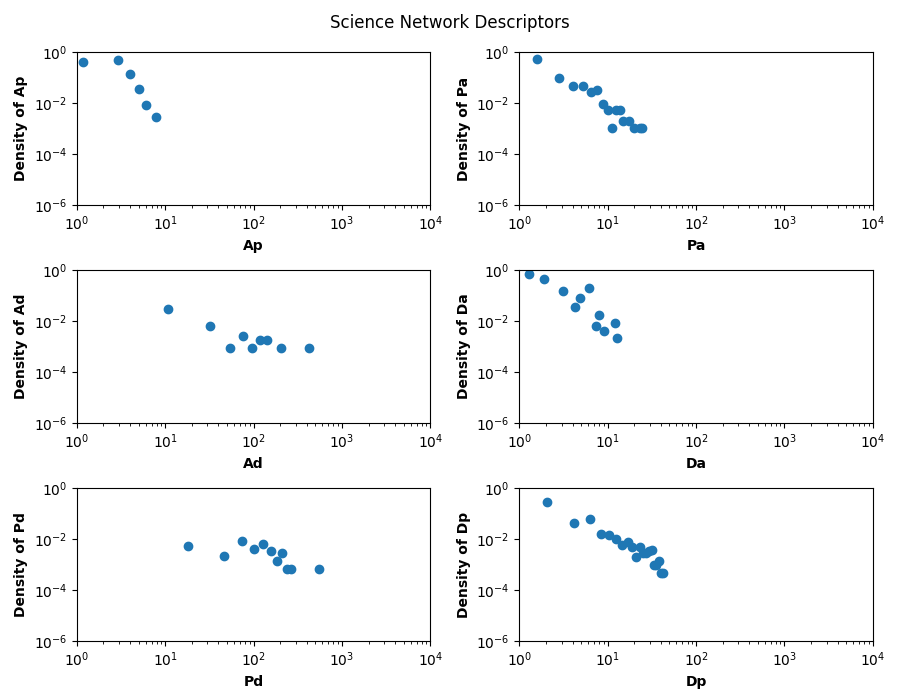
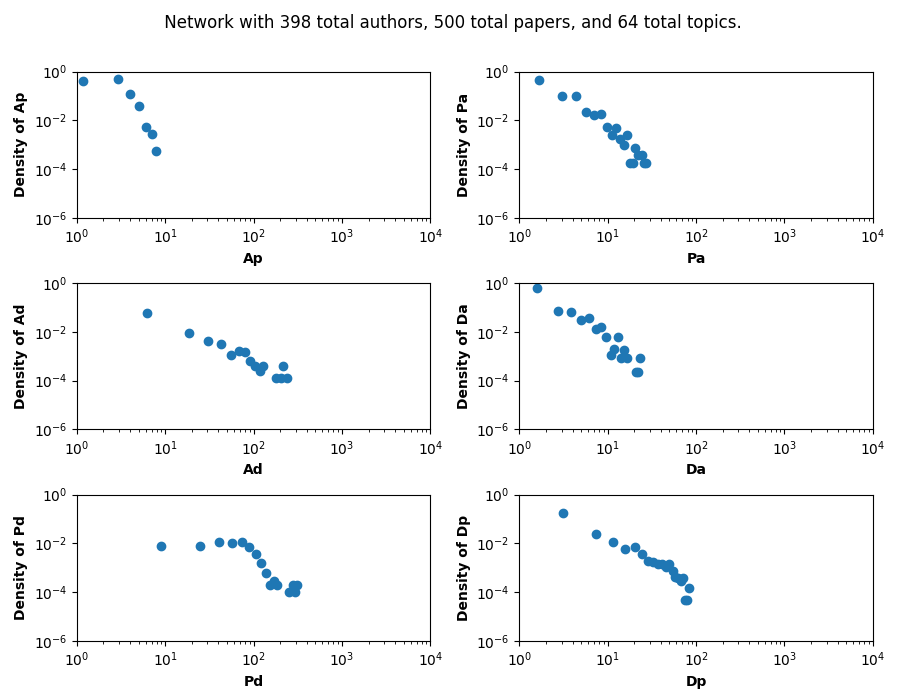
Added bibsonomy model

diff --git a/outputs/ErrorGraph.html b/outputs/ErrorGraph.html
@@ -1,0 +1,108 @@
+<html>
+<head>
+<link rel="stylesheet" href="https://cdnjs.cloudflare.com/ajax/libs/vis/4.16.1/vis.css" type="text/css" />
+<script type="text/javascript" src="https://cdnjs.cloudflare.com/ajax/libs/vis/4.16.1/vis-network.min.js"> </script>
+<center>
+<h1></h1>
+</center>
+
+<!-- <link rel="stylesheet" href="../node_modules/vis/dist/vis.min.css" type="text/css" />
+<script type="text/javascript" src="../node_modules/vis/dist/vis.js"> </script>-->
+
+<style type="text/css">
+
+        #mynetwork {
+            width: 500px;
+            height: 500px;
+            background-color: #ffffff;
+            border: 1px solid lightgray;
+            position: relative;
+            float: left;
+        }
+
+        
+
+        
+
+        
+</style>
+
+</head>
+
+<body>
+<div id = "mynetwork"></div>
+
+
+<script type="text/javascript">
+
+    // initialize global variables.
+    var edges;
+    var nodes;
+    var network; 
+    var container;
+    var options, data;
+
+    
+    // This method is responsible for drawing the graph, returns the drawn network
+    function drawGraph() {
+        var container = document.getElementById('mynetwork');
+        
+        
+
+        // parsing and collecting nodes and edges from the python
+        nodes = new vis.DataSet([{"data": null, "group": 1, "id": 32, "label": "Author 32", "shape": "dot", "size": 10, "title": "\n            \u003cstyle\u003e\n                table {font-family: arial, sans-serif;border-collapse: collapse;}\n                td, th {border: 1px solid #dddddd;text-align: left;padding: 8px;}\n                th {background-color:#22A7F0}\n                tr:nth-child(even) {background-color: #dddddd;}\n            \u003c/style\u003e\n            \u003cdiv style=\"overflow-x:auto; width:500px\"\u003e\u003ctable\u003e\u003ctr\u003e\u003ccaption\u003e\u003cb\u003eMain Author Disciplines:\u003c/b\u003e 5,7\u003c/caption\u003e\u003c/tr\u003e\u003ctr\u003e\u003cth\u003e5\u003c/th\u003e\u003ctd\u003e37\u003c/td\u003e\u003ctd\u003e111\u003c/td\u003e\u003ctd\u003e114\u003c/td\u003e\u003ctd\u003e122\u003c/td\u003e\u003ctd\u003e56\u003c/td\u003e\u003c/tr\u003e\u003ctr\u003e\u003cth\u003e7\u003c/th\u003e\u003ctd\u003e37\u003c/td\u003e\u003ctd\u003e111\u003c/td\u003e\u003ctd\u003e114\u003c/td\u003e\u003ctd\u003e122\u003c/td\u003e\u003ctd\u003e56\u003c/td\u003e\u003c/tr\u003e\u003ctr\u003e\u003cth\u003e14\u003c/th\u003e\u003ctd\u003e56\u003c/td\u003e\u003c/tr\u003e\u003ctr\u003e\u003cth\u003e15\u003c/th\u003e\u003ctd\u003e56\u003c/td\u003e\u003c/tr\u003e\u003ctr\u003e\u003cth\u003e16\u003c/th\u003e\u003ctd\u003e56\u003c/td\u003e\u003c/tr\u003e\u003ctr\u003e\u003cth\u003e17\u003c/th\u003e\u003ctd\u003e56\u003c/td\u003e\u003c/tr\u003e\u003ctr\u003e\u003cth\u003e18\u003c/th\u003e\u003ctd\u003e56\u003c/td\u003e\u003c/tr\u003e\u003ctr\u003e\u003cth\u003e19\u003c/th\u003e\u003ctd\u003e56\u003c/td\u003e\u003c/tr\u003e\u003ctr\u003e\u003cth\u003e20\u003c/th\u003e\u003ctd\u003e56\u003c/td\u003e\u003c/tr\u003e\u003ctr\u003e\u003cth\u003e21\u003c/th\u003e\u003ctd\u003e56\u003c/td\u003e\u003c/tr\u003e\u003ctr\u003e\u003cth\u003e22\u003c/th\u003e\u003ctd\u003e56\u003c/td\u003e\u003c/tr\u003e\u003ctr\u003e\u003cth\u003e23\u003c/th\u003e\u003ctd\u003e56\u003c/td\u003e\u003c/tr\u003e\u003ctr\u003e\u003cth\u003e24\u003c/th\u003e\u003ctd\u003e56\u003c/td\u003e\u003c/tr\u003e\u003ctr\u003e\u003cth\u003e25\u003c/th\u003e\u003ctd\u003e56\u003c/td\u003e\u003c/tr\u003e\u003ctr\u003e\u003cth\u003e26\u003c/th\u003e\u003ctd\u003e56\u003c/td\u003e\u003c/tr\u003e\u003ctr\u003e\u003cth\u003e27\u003c/th\u003e\u003ctd\u003e56\u003c/td\u003e\u003c/tr\u003e\u003ctr\u003e\u003cth\u003e28\u003c/th\u003e\u003ctd\u003e56\u003c/td\u003e\u003c/tr\u003e\u003ctr\u003e\u003cth\u003e29\u003c/th\u003e\u003ctd\u003e56\u003c/td\u003e\u003c/tr\u003e\u003ctr\u003e\u003cth\u003e30\u003c/th\u003e\u003ctd\u003e56\u003c/td\u003e\u003c/tr\u003e\u003ctr\u003e\u003cth\u003e31\u003c/th\u003e\u003ctd\u003e56\u003c/td\u003e\u003c/tr\u003e\u003ctr\u003e\u003cth\u003e32\u003c/th\u003e\u003ctd\u003e56\u003c/td\u003e\u003c/tr\u003e\u003ctr\u003e\u003cth\u003e33\u003c/th\u003e\u003ctd\u003e56\u003c/td\u003e\u003c/tr\u003e\u003ctr\u003e\u003cth\u003e34\u003c/th\u003e\u003ctd\u003e56\u003c/td\u003e\u003c/tr\u003e\u003ctr\u003e\u003cth\u003e35\u003c/th\u003e\u003ctd\u003e56\u003c/td\u003e\u003c/tr\u003e\u003c/table\u003e\u003c/div\u003e", "value": 5}, {"data": null, "group": 1, "id": 33, "label": "Author 33", "shape": "dot", "size": 10, "title": "\n            \u003cstyle\u003e\n                table {font-family: arial, sans-serif;border-collapse: collapse;}\n                td, th {border: 1px solid #dddddd;text-align: left;padding: 8px;}\n                th {background-color:#22A7F0}\n                tr:nth-child(even) {background-color: #dddddd;}\n            \u003c/style\u003e\n            \u003cdiv style=\"overflow-x:auto; width:500px\"\u003e\u003ctable\u003e\u003ctr\u003e\u003ccaption\u003e\u003cb\u003eMain Author Disciplines:\u003c/b\u003e 5,7\u003c/caption\u003e\u003c/tr\u003e\u003ctr\u003e\u003cth\u003e5\u003c/th\u003e\u003ctd\u003e38\u003c/td\u003e\u003ctd\u003e170\u003c/td\u003e\u003ctd\u003e115\u003c/td\u003e\u003c/tr\u003e\u003ctr\u003e\u003cth\u003e7\u003c/th\u003e\u003ctd\u003e38\u003c/td\u003e\u003ctd\u003e170\u003c/td\u003e\u003ctd\u003e115\u003c/td\u003e\u003c/tr\u003e\u003ctr\u003e\u003cth\u003e23\u003c/th\u003e\u003ctd\u003e115\u003c/td\u003e\u003c/tr\u003e\u003ctr\u003e\u003cth\u003e24\u003c/th\u003e\u003ctd\u003e115\u003c/td\u003e\u003c/tr\u003e\u003ctr\u003e\u003cth\u003e25\u003c/th\u003e\u003ctd\u003e115\u003c/td\u003e\u003c/tr\u003e\u003ctr\u003e\u003cth\u003e26\u003c/th\u003e\u003ctd\u003e115\u003c/td\u003e\u003c/tr\u003e\u003ctr\u003e\u003cth\u003e27\u003c/th\u003e\u003ctd\u003e115\u003c/td\u003e\u003c/tr\u003e\u003ctr\u003e\u003cth\u003e28\u003c/th\u003e\u003ctd\u003e115\u003c/td\u003e\u003c/tr\u003e\u003ctr\u003e\u003cth\u003e29\u003c/th\u003e\u003ctd\u003e115\u003c/td\u003e\u003c/tr\u003e\u003ctr\u003e\u003cth\u003e30\u003c/th\u003e\u003ctd\u003e115\u003c/td\u003e\u003c/tr\u003e\u003ctr\u003e\u003cth\u003e31\u003c/th\u003e\u003ctd\u003e115\u003c/td\u003e\u003c/tr\u003e\u003ctr\u003e\u003cth\u003e32\u003c/th\u003e\u003ctd\u003e115\u003c/td\u003e\u003c/tr\u003e\u003ctr\u003e\u003cth\u003e33\u003c/th\u003e\u003ctd\u003e115\u003c/td\u003e\u003c/tr\u003e\u003ctr\u003e\u003cth\u003e34\u003c/th\u003e\u003ctd\u003e115\u003c/td\u003e\u003c/tr\u003e\u003ctr\u003e\u003cth\u003e35\u003c/th\u003e\u003ctd\u003e115\u003c/td\u003e\u003c/tr\u003e\u003c/table\u003e\u003c/div\u003e", "value": 3}, {"data": null, "group": 2, "id": 9, "label": "Author 9", "shape": "dot", "size": 10, "title": "\n            \u003cstyle\u003e\n                table {font-family: arial, sans-serif;border-collapse: collapse;}\n                td, th {border: 1px solid #dddddd;text-align: left;padding: 8px;}\n                th {background-color:#22A7F0}\n                tr:nth-child(even) {background-color: #dddddd;}\n            \u003c/style\u003e\n            \u003cdiv style=\"overflow-x:auto; width:500px\"\u003e\u003ctable\u003e\u003ctr\u003e\u003ccaption\u003e\u003cb\u003eMain Author Disciplines:\u003c/b\u003e 7\u003c/caption\u003e\u003c/tr\u003e\u003ctr\u003e\u003cth\u003e5\u003c/th\u003e\u003ctd\u003e12\u003c/td\u003e\u003ctd\u003e28\u003c/td\u003e\u003c/tr\u003e\u003ctr\u003e\u003cth\u003e7\u003c/th\u003e\u003ctd\u003e34\u003c/td\u003e\u003ctd\u003e54\u003c/td\u003e\u003ctd\u003e12\u003c/td\u003e\u003ctd\u003e28\u003c/td\u003e\u003ctd\u003e13\u003c/td\u003e\u003c/tr\u003e\u003ctr\u003e\u003cth\u003e8\u003c/th\u003e\u003ctd\u003e13\u003c/td\u003e\u003c/tr\u003e\u003ctr\u003e\u003cth\u003e9\u003c/th\u003e\u003ctd\u003e13\u003c/td\u003e\u003c/tr\u003e\u003ctr\u003e\u003cth\u003e10\u003c/th\u003e\u003ctd\u003e13\u003c/td\u003e\u003c/tr\u003e\u003ctr\u003e\u003cth\u003e11\u003c/th\u003e\u003ctd\u003e13\u003c/td\u003e\u003c/tr\u003e\u003ctr\u003e\u003cth\u003e12\u003c/th\u003e\u003ctd\u003e13\u003c/td\u003e\u003c/tr\u003e\u003ctr\u003e\u003cth\u003e13\u003c/th\u003e\u003ctd\u003e13\u003c/td\u003e\u003c/tr\u003e\u003ctr\u003e\u003cth\u003e14\u003c/th\u003e\u003ctd\u003e13\u003c/td\u003e\u003c/tr\u003e\u003ctr\u003e\u003cth\u003e15\u003c/th\u003e\u003ctd\u003e13\u003c/td\u003e\u003c/tr\u003e\u003ctr\u003e\u003cth\u003e16\u003c/th\u003e\u003ctd\u003e13\u003c/td\u003e\u003c/tr\u003e\u003ctr\u003e\u003cth\u003e17\u003c/th\u003e\u003ctd\u003e13\u003c/td\u003e\u003c/tr\u003e\u003ctr\u003e\u003cth\u003e18\u003c/th\u003e\u003ctd\u003e13\u003c/td\u003e\u003c/tr\u003e\u003ctr\u003e\u003cth\u003e19\u003c/th\u003e\u003ctd\u003e13\u003c/td\u003e\u003c/tr\u003e\u003ctr\u003e\u003cth\u003e20\u003c/th\u003e\u003ctd\u003e13\u003c/td\u003e\u003c/tr\u003e\u003ctr\u003e\u003cth\u003e21\u003c/th\u003e\u003ctd\u003e13\u003c/td\u003e\u003c/tr\u003e\u003ctr\u003e\u003cth\u003e22\u003c/th\u003e\u003ctd\u003e13\u003c/td\u003e\u003c/tr\u003e\u003ctr\u003e\u003cth\u003e23\u003c/th\u003e\u003ctd\u003e13\u003c/td\u003e\u003c/tr\u003e\u003ctr\u003e\u003cth\u003e24\u003c/th\u003e\u003ctd\u003e13\u003c/td\u003e\u003c/tr\u003e\u003ctr\u003e\u003cth\u003e25\u003c/th\u003e\u003ctd\u003e13\u003c/td\u003e\u003c/tr\u003e\u003ctr\u003e\u003cth\u003e26\u003c/th\u003e\u003ctd\u003e13\u003c/td\u003e\u003c/tr\u003e\u003ctr\u003e\u003cth\u003e27\u003c/th\u003e\u003ctd\u003e13\u003c/td\u003e\u003c/tr\u003e\u003ctr\u003e\u003cth\u003e28\u003c/th\u003e\u003ctd\u003e12\u003c/td\u003e\u003ctd\u003e28\u003c/td\u003e\u003ctd\u003e11\u003c/td\u003e\u003ctd\u003e13\u003c/td\u003e\u003c/tr\u003e\u003ctr\u003e\u003cth\u003e29\u003c/th\u003e\u003ctd\u003e11\u003c/td\u003e\u003ctd\u003e13\u003c/td\u003e\u003c/tr\u003e\u003ctr\u003e\u003cth\u003e30\u003c/th\u003e\u003ctd\u003e11\u003c/td\u003e\u003ctd\u003e13\u003c/td\u003e\u003c/tr\u003e\u003ctr\u003e\u003cth\u003e31\u003c/th\u003e\u003ctd\u003e13\u003c/td\u003e\u003c/tr\u003e\u003ctr\u003e\u003cth\u003e32\u003c/th\u003e\u003ctd\u003e13\u003c/td\u003e\u003c/tr\u003e\u003ctr\u003e\u003cth\u003e33\u003c/th\u003e\u003ctd\u003e13\u003c/td\u003e\u003c/tr\u003e\u003ctr\u003e\u003cth\u003e34\u003c/th\u003e\u003ctd\u003e11\u003c/td\u003e\u003ctd\u003e13\u003c/td\u003e\u003c/tr\u003e\u003ctr\u003e\u003cth\u003e35\u003c/th\u003e\u003ctd\u003e11\u003c/td\u003e\u003ctd\u003e13\u003c/td\u003e\u003c/tr\u003e\u003c/table\u003e\u003c/div\u003e", "value": 6}, {"data": null, "group": 3, "id": 11, "label": "Author 11", "shape": "dot", "size": 10, "title": "\n            \u003cstyle\u003e\n                table {font-family: arial, sans-serif;border-collapse: collapse;}\n                td, th {border: 1px solid #dddddd;text-align: left;padding: 8px;}\n                th {background-color:#22A7F0}\n                tr:nth-child(even) {background-color: #dddddd;}\n            \u003c/style\u003e\n            \u003cdiv style=\"overflow-x:auto; width:500px\"\u003e\u003ctable\u003e\u003ctr\u003e\u003ccaption\u003e\u003cb\u003eMain Author Disciplines:\u003c/b\u003e 5\u003c/caption\u003e\u003c/tr\u003e\u003ctr\u003e\u003cth\u003e5\u003c/th\u003e\u003ctd\u003e136\u003c/td\u003e\u003ctd\u003e14\u003c/td\u003e\u003ctd\u003e40\u003c/td\u003e\u003ctd\u003e70\u003c/td\u003e\u003ctd\u003e124\u003c/td\u003e\u003ctd\u003e155\u003c/td\u003e\u003ctd\u003e29\u003c/td\u003e\u003ctd\u003e180\u003c/td\u003e\u003c/tr\u003e\u003ctr\u003e\u003cth\u003e10\u003c/th\u003e\u003ctd\u003e29\u003c/td\u003e\u003c/tr\u003e\u003ctr\u003e\u003cth\u003e11\u003c/th\u003e\u003ctd\u003e29\u003c/td\u003e\u003c/tr\u003e\u003ctr\u003e\u003cth\u003e12\u003c/th\u003e\u003ctd\u003e29\u003c/td\u003e\u003c/tr\u003e\u003ctr\u003e\u003cth\u003e13\u003c/th\u003e\u003ctd\u003e29\u003c/td\u003e\u003c/tr\u003e\u003ctr\u003e\u003cth\u003e14\u003c/th\u003e\u003ctd\u003e29\u003c/td\u003e\u003c/tr\u003e\u003ctr\u003e\u003cth\u003e15\u003c/th\u003e\u003ctd\u003e29\u003c/td\u003e\u003c/tr\u003e\u003ctr\u003e\u003cth\u003e16\u003c/th\u003e\u003ctd\u003e29\u003c/td\u003e\u003c/tr\u003e\u003ctr\u003e\u003cth\u003e17\u003c/th\u003e\u003ctd\u003e29\u003c/td\u003e\u003c/tr\u003e\u003ctr\u003e\u003cth\u003e18\u003c/th\u003e\u003ctd\u003e29\u003c/td\u003e\u003c/tr\u003e\u003ctr\u003e\u003cth\u003e19\u003c/th\u003e\u003ctd\u003e29\u003c/td\u003e\u003c/tr\u003e\u003ctr\u003e\u003cth\u003e20\u003c/th\u003e\u003ctd\u003e29\u003c/td\u003e\u003c/tr\u003e\u003ctr\u003e\u003cth\u003e21\u003c/th\u003e\u003ctd\u003e29\u003c/td\u003e\u003c/tr\u003e\u003ctr\u003e\u003cth\u003e22\u003c/th\u003e\u003ctd\u003e29\u003c/td\u003e\u003c/tr\u003e\u003ctr\u003e\u003cth\u003e23\u003c/th\u003e\u003ctd\u003e29\u003c/td\u003e\u003c/tr\u003e\u003ctr\u003e\u003cth\u003e24\u003c/th\u003e\u003ctd\u003e29\u003c/td\u003e\u003c/tr\u003e\u003ctr\u003e\u003cth\u003e25\u003c/th\u003e\u003ctd\u003e29\u003c/td\u003e\u003c/tr\u003e\u003ctr\u003e\u003cth\u003e26\u003c/th\u003e\u003ctd\u003e29\u003c/td\u003e\u003c/tr\u003e\u003ctr\u003e\u003cth\u003e27\u003c/th\u003e\u003ctd\u003e29\u003c/td\u003e\u003c/tr\u003e\u003ctr\u003e\u003cth\u003e28\u003c/th\u003e\u003ctd\u003e14\u003c/td\u003e\u003ctd\u003e40\u003c/td\u003e\u003ctd\u003e70\u003c/td\u003e\u003ctd\u003e124\u003c/td\u003e\u003ctd\u003e29\u003c/td\u003e\u003c/tr\u003e\u003ctr\u003e\u003cth\u003e29\u003c/th\u003e\u003ctd\u003e29\u003c/td\u003e\u003c/tr\u003e\u003ctr\u003e\u003cth\u003e30\u003c/th\u003e\u003ctd\u003e29\u003c/td\u003e\u003c/tr\u003e\u003ctr\u003e\u003cth\u003e31\u003c/th\u003e\u003ctd\u003e29\u003c/td\u003e\u003c/tr\u003e\u003ctr\u003e\u003cth\u003e32\u003c/th\u003e\u003ctd\u003e29\u003c/td\u003e\u003c/tr\u003e\u003ctr\u003e\u003cth\u003e33\u003c/th\u003e\u003ctd\u003e29\u003c/td\u003e\u003c/tr\u003e\u003ctr\u003e\u003cth\u003e34\u003c/th\u003e\u003ctd\u003e29\u003c/td\u003e\u003c/tr\u003e\u003ctr\u003e\u003cth\u003e35\u003c/th\u003e\u003ctd\u003e29\u003c/td\u003e\u003c/tr\u003e\u003c/table\u003e\u003c/div\u003e", "value": 8}, {"data": null, "group": 4, "id": 12, "label": "Author 12", "shape": "dot", "size": 10, "title": "\n            \u003cstyle\u003e\n                table {font-family: arial, sans-serif;border-collapse: collapse;}\n                td, th {border: 1px solid #dddddd;text-align: left;padding: 8px;}\n                th {background-color:#22A7F0}\n                tr:nth-child(even) {background-color: #dddddd;}\n            \u003c/style\u003e\n            \u003cdiv style=\"overflow-x:auto; width:500px\"\u003e\u003ctable\u003e\u003ctr\u003e\u003ccaption\u003e\u003cb\u003eMain Author Disciplines:\u003c/b\u003e 7,8\u003c/caption\u003e\u003c/tr\u003e\u003ctr\u003e\u003cth\u003e1\u003c/th\u003e\u003ctd\u003e19\u003c/td\u003e\u003c/tr\u003e\u003ctr\u003e\u003cth\u003e7\u003c/th\u003e\u003ctd\u003e50\u003c/td\u003e\u003ctd\u003e94\u003c/td\u003e\u003ctd\u003e42\u003c/td\u003e\u003ctd\u003e44\u003c/td\u003e\u003ctd\u003e57\u003c/td\u003e\u003c/tr\u003e\u003ctr\u003e\u003cth\u003e8\u003c/th\u003e\u003ctd\u003e50\u003c/td\u003e\u003ctd\u003e94\u003c/td\u003e\u003ctd\u003e42\u003c/td\u003e\u003ctd\u003e44\u003c/td\u003e\u003ctd\u003e57\u003c/td\u003e\u003c/tr\u003e\u003ctr\u003e\u003cth\u003e15\u003c/th\u003e\u003ctd\u003e57\u003c/td\u003e\u003c/tr\u003e\u003ctr\u003e\u003cth\u003e16\u003c/th\u003e\u003ctd\u003e57\u003c/td\u003e\u003c/tr\u003e\u003ctr\u003e\u003cth\u003e17\u003c/th\u003e\u003ctd\u003e57\u003c/td\u003e\u003c/tr\u003e\u003ctr\u003e\u003cth\u003e18\u003c/th\u003e\u003ctd\u003e57\u003c/td\u003e\u003c/tr\u003e\u003ctr\u003e\u003cth\u003e19\u003c/th\u003e\u003ctd\u003e57\u003c/td\u003e\u003c/tr\u003e\u003ctr\u003e\u003cth\u003e20\u003c/th\u003e\u003ctd\u003e57\u003c/td\u003e\u003c/tr\u003e\u003ctr\u003e\u003cth\u003e21\u003c/th\u003e\u003ctd\u003e42\u003c/td\u003e\u003ctd\u003e44\u003c/td\u003e\u003ctd\u003e57\u003c/td\u003e\u003c/tr\u003e\u003ctr\u003e\u003cth\u003e22\u003c/th\u003e\u003ctd\u003e57\u003c/td\u003e\u003c/tr\u003e\u003ctr\u003e\u003cth\u003e23\u003c/th\u003e\u003ctd\u003e57\u003c/td\u003e\u003c/tr\u003e\u003ctr\u003e\u003cth\u003e24\u003c/th\u003e\u003ctd\u003e42\u003c/td\u003e\u003ctd\u003e44\u003c/td\u003e\u003ctd\u003e15\u003c/td\u003e\u003ctd\u003e57\u003c/td\u003e\u003c/tr\u003e\u003ctr\u003e\u003cth\u003e25\u003c/th\u003e\u003ctd\u003e57\u003c/td\u003e\u003c/tr\u003e\u003ctr\u003e\u003cth\u003e26\u003c/th\u003e\u003ctd\u003e57\u003c/td\u003e\u003c/tr\u003e\u003ctr\u003e\u003cth\u003e27\u003c/th\u003e\u003ctd\u003e57\u003c/td\u003e\u003c/tr\u003e\u003ctr\u003e\u003cth\u003e28\u003c/th\u003e\u003ctd\u003e57\u003c/td\u003e\u003c/tr\u003e\u003ctr\u003e\u003cth\u003e29\u003c/th\u003e\u003ctd\u003e15\u003c/td\u003e\u003ctd\u003e57\u003c/td\u003e\u003c/tr\u003e\u003ctr\u003e\u003cth\u003e30\u003c/th\u003e\u003ctd\u003e15\u003c/td\u003e\u003ctd\u003e57\u003c/td\u003e\u003c/tr\u003e\u003ctr\u003e\u003cth\u003e31\u003c/th\u003e\u003ctd\u003e57\u003c/td\u003e\u003c/tr\u003e\u003ctr\u003e\u003cth\u003e32\u003c/th\u003e\u003ctd\u003e57\u003c/td\u003e\u003c/tr\u003e\u003ctr\u003e\u003cth\u003e33\u003c/th\u003e\u003ctd\u003e57\u003c/td\u003e\u003c/tr\u003e\u003ctr\u003e\u003cth\u003e34\u003c/th\u003e\u003ctd\u003e57\u003c/td\u003e\u003c/tr\u003e\u003ctr\u003e\u003cth\u003e35\u003c/th\u003e\u003ctd\u003e57\u003c/td\u003e\u003c/tr\u003e\u003c/table\u003e\u003c/div\u003e", "value": 7}, {"data": null, "group": 4, "id": 45, "label": "Author 45", "shape": "dot", "size": 10, "title": "\n            \u003cstyle\u003e\n                table {font-family: arial, sans-serif;border-collapse: collapse;}\n                td, th {border: 1px solid #dddddd;text-align: left;padding: 8px;}\n                th {background-color:#22A7F0}\n                tr:nth-child(even) {background-color: #dddddd;}\n            \u003c/style\u003e\n            \u003cdiv style=\"overflow-x:auto; width:500px\"\u003e\u003ctable\u003e\u003ctr\u003e\u003ccaption\u003e\u003cb\u003eMain Author Disciplines:\u003c/b\u003e 7,8\u003c/caption\u003e\u003c/tr\u003e\u003ctr\u003e\u003cth\u003e7\u003c/th\u003e\u003ctd\u003e53\u003c/td\u003e\u003ctd\u003e58\u003c/td\u003e\u003ctd\u003e95\u003c/td\u003e\u003ctd\u003e134\u003c/td\u003e\u003ctd\u003e64\u003c/td\u003e\u003ctd\u003e194\u003c/td\u003e\u003c/tr\u003e\u003ctr\u003e\u003cth\u003e8\u003c/th\u003e\u003ctd\u003e53\u003c/td\u003e\u003ctd\u003e58\u003c/td\u003e\u003ctd\u003e95\u003c/td\u003e\u003ctd\u003e134\u003c/td\u003e\u003ctd\u003e64\u003c/td\u003e\u003ctd\u003e194\u003c/td\u003e\u003c/tr\u003e\u003ctr\u003e\u003cth\u003e16\u003c/th\u003e\u003ctd\u003e64\u003c/td\u003e\u003c/tr\u003e\u003ctr\u003e\u003cth\u003e17\u003c/th\u003e\u003ctd\u003e64\u003c/td\u003e\u003c/tr\u003e\u003ctr\u003e\u003cth\u003e18\u003c/th\u003e\u003ctd\u003e64\u003c/td\u003e\u003c/tr\u003e\u003ctr\u003e\u003cth\u003e19\u003c/th\u003e\u003ctd\u003e64\u003c/td\u003e\u003c/tr\u003e\u003ctr\u003e\u003cth\u003e20\u003c/th\u003e\u003ctd\u003e64\u003c/td\u003e\u003c/tr\u003e\u003ctr\u003e\u003cth\u003e21\u003c/th\u003e\u003ctd\u003e64\u003c/td\u003e\u003c/tr\u003e\u003ctr\u003e\u003cth\u003e22\u003c/th\u003e\u003ctd\u003e64\u003c/td\u003e\u003c/tr\u003e\u003ctr\u003e\u003cth\u003e23\u003c/th\u003e\u003ctd\u003e64\u003c/td\u003e\u003c/tr\u003e\u003ctr\u003e\u003cth\u003e24\u003c/th\u003e\u003ctd\u003e64\u003c/td\u003e\u003c/tr\u003e\u003ctr\u003e\u003cth\u003e25\u003c/th\u003e\u003ctd\u003e64\u003c/td\u003e\u003c/tr\u003e\u003ctr\u003e\u003cth\u003e26\u003c/th\u003e\u003ctd\u003e64\u003c/td\u003e\u003c/tr\u003e\u003ctr\u003e\u003cth\u003e27\u003c/th\u003e\u003ctd\u003e64\u003c/td\u003e\u003c/tr\u003e\u003ctr\u003e\u003cth\u003e28\u003c/th\u003e\u003ctd\u003e64\u003c/td\u003e\u003c/tr\u003e\u003ctr\u003e\u003cth\u003e29\u003c/th\u003e\u003ctd\u003e64\u003c/td\u003e\u003c/tr\u003e\u003ctr\u003e\u003cth\u003e30\u003c/th\u003e\u003ctd\u003e64\u003c/td\u003e\u003c/tr\u003e\u003ctr\u003e\u003cth\u003e31\u003c/th\u003e\u003ctd\u003e64\u003c/td\u003e\u003c/tr\u003e\u003ctr\u003e\u003cth\u003e32\u003c/th\u003e\u003ctd\u003e64\u003c/td\u003e\u003c/tr\u003e\u003ctr\u003e\u003cth\u003e33\u003c/th\u003e\u003ctd\u003e64\u003c/td\u003e\u003c/tr\u003e\u003ctr\u003e\u003cth\u003e34\u003c/th\u003e\u003ctd\u003e64\u003c/td\u003e\u003c/tr\u003e\u003ctr\u003e\u003cth\u003e35\u003c/th\u003e\u003ctd\u003e64\u003c/td\u003e\u003c/tr\u003e\u003c/table\u003e\u003c/div\u003e", "value": 6}, {"data": null, "group": 5, "id": 75, "label": "Author 75", "shape": "dot", "size": 10, "title": "\n            \u003cstyle\u003e\n                table {font-family: arial, sans-serif;border-collapse: collapse;}\n                td, th {border: 1px solid #dddddd;text-align: left;padding: 8px;}\n                th {background-color:#22A7F0}\n                tr:nth-child(even) {background-color: #dddddd;}\n            \u003c/style\u003e\n            \u003cdiv style=\"overflow-x:auto; width:500px\"\u003e\u003ctable\u003e\u003ctr\u003e\u003ccaption\u003e\u003cb\u003eMain Author Disciplines:\u003c/b\u003e 1,3,4,5,7,8,21,23,24,30\u003c/caption\u003e\u003c/tr\u003e\u003ctr\u003e\u003cth\u003e1\u003c/th\u003e\u003ctd\u003e88\u003c/td\u003e\u003ctd\u003e93\u003c/td\u003e\u003c/tr\u003e\u003ctr\u003e\u003cth\u003e3\u003c/th\u003e\u003ctd\u003e88\u003c/td\u003e\u003ctd\u003e93\u003c/td\u003e\u003c/tr\u003e\u003ctr\u003e\u003cth\u003e4\u003c/th\u003e\u003ctd\u003e88\u003c/td\u003e\u003ctd\u003e93\u003c/td\u003e\u003c/tr\u003e\u003ctr\u003e\u003cth\u003e5\u003c/th\u003e\u003ctd\u003e88\u003c/td\u003e\u003ctd\u003e93\u003c/td\u003e\u003c/tr\u003e\u003ctr\u003e\u003cth\u003e7\u003c/th\u003e\u003ctd\u003e88\u003c/td\u003e\u003ctd\u003e93\u003c/td\u003e\u003c/tr\u003e\u003ctr\u003e\u003cth\u003e8\u003c/th\u003e\u003ctd\u003e88\u003c/td\u003e\u003ctd\u003e93\u003c/td\u003e\u003c/tr\u003e\u003ctr\u003e\u003cth\u003e18\u003c/th\u003e\u003ctd\u003e93\u003c/td\u003e\u003c/tr\u003e\u003ctr\u003e\u003cth\u003e19\u003c/th\u003e\u003ctd\u003e93\u003c/td\u003e\u003c/tr\u003e\u003ctr\u003e\u003cth\u003e20\u003c/th\u003e\u003ctd\u003e93\u003c/td\u003e\u003c/tr\u003e\u003ctr\u003e\u003cth\u003e21\u003c/th\u003e\u003ctd\u003e88\u003c/td\u003e\u003ctd\u003e93\u003c/td\u003e\u003c/tr\u003e\u003ctr\u003e\u003cth\u003e22\u003c/th\u003e\u003ctd\u003e93\u003c/td\u003e\u003c/tr\u003e\u003ctr\u003e\u003cth\u003e23\u003c/th\u003e\u003ctd\u003e88\u003c/td\u003e\u003ctd\u003e93\u003c/td\u003e\u003c/tr\u003e\u003ctr\u003e\u003cth\u003e24\u003c/th\u003e\u003ctd\u003e88\u003c/td\u003e\u003ctd\u003e93\u003c/td\u003e\u003c/tr\u003e\u003ctr\u003e\u003cth\u003e25\u003c/th\u003e\u003ctd\u003e93\u003c/td\u003e\u003c/tr\u003e\u003ctr\u003e\u003cth\u003e26\u003c/th\u003e\u003ctd\u003e93\u003c/td\u003e\u003c/tr\u003e\u003ctr\u003e\u003cth\u003e27\u003c/th\u003e\u003ctd\u003e93\u003c/td\u003e\u003c/tr\u003e\u003ctr\u003e\u003cth\u003e28\u003c/th\u003e\u003ctd\u003e93\u003c/td\u003e\u003c/tr\u003e\u003ctr\u003e\u003cth\u003e29\u003c/th\u003e\u003ctd\u003e93\u003c/td\u003e\u003c/tr\u003e\u003ctr\u003e\u003cth\u003e30\u003c/th\u003e\u003ctd\u003e88\u003c/td\u003e\u003ctd\u003e93\u003c/td\u003e\u003c/tr\u003e\u003ctr\u003e\u003cth\u003e31\u003c/th\u003e\u003ctd\u003e93\u003c/td\u003e\u003c/tr\u003e\u003ctr\u003e\u003cth\u003e32\u003c/th\u003e\u003ctd\u003e93\u003c/td\u003e\u003c/tr\u003e\u003ctr\u003e\u003cth\u003e33\u003c/th\u003e\u003ctd\u003e93\u003c/td\u003e\u003c/tr\u003e\u003ctr\u003e\u003cth\u003e34\u003c/th\u003e\u003ctd\u003e93\u003c/td\u003e\u003c/tr\u003e\u003ctr\u003e\u003cth\u003e35\u003c/th\u003e\u003ctd\u003e93\u003c/td\u003e\u003c/tr\u003e\u003c/table\u003e\u003c/div\u003e", "value": 2}, {"data": null, "group": 1, "id": 30, "label": "Author 30", "shape": "dot", "size": 10, "title": "\n            \u003cstyle\u003e\n                table {font-family: arial, sans-serif;border-collapse: collapse;}\n                td, th {border: 1px solid #dddddd;text-align: left;padding: 8px;}\n                th {background-color:#22A7F0}\n                tr:nth-child(even) {background-color: #dddddd;}\n            \u003c/style\u003e\n            \u003cdiv style=\"overflow-x:auto; width:500px\"\u003e\u003ctable\u003e\u003ctr\u003e\u003ccaption\u003e\u003cb\u003eMain Author Disciplines:\u003c/b\u003e 5,7\u003c/caption\u003e\u003c/tr\u003e\u003ctr\u003e\u003cth\u003e5\u003c/th\u003e\u003ctd\u003e45\u003c/td\u003e\u003ctd\u003e62\u003c/td\u003e\u003ctd\u003e65\u003c/td\u003e\u003ctd\u003e67\u003c/td\u003e\u003ctd\u003e35\u003c/td\u003e\u003ctd\u003e121\u003c/td\u003e\u003ctd\u003e39\u003c/td\u003e\u003c/tr\u003e\u003ctr\u003e\u003cth\u003e7\u003c/th\u003e\u003ctd\u003e45\u003c/td\u003e\u003ctd\u003e62\u003c/td\u003e\u003ctd\u003e65\u003c/td\u003e\u003ctd\u003e67\u003c/td\u003e\u003ctd\u003e35\u003c/td\u003e\u003ctd\u003e121\u003c/td\u003e\u003ctd\u003e39\u003c/td\u003e\u003c/tr\u003e\u003ctr\u003e\u003cth\u003e12\u003c/th\u003e\u003ctd\u003e39\u003c/td\u003e\u003c/tr\u003e\u003ctr\u003e\u003cth\u003e13\u003c/th\u003e\u003ctd\u003e39\u003c/td\u003e\u003c/tr\u003e\u003ctr\u003e\u003cth\u003e14\u003c/th\u003e\u003ctd\u003e39\u003c/td\u003e\u003c/tr\u003e\u003ctr\u003e\u003cth\u003e15\u003c/th\u003e\u003ctd\u003e39\u003c/td\u003e\u003c/tr\u003e\u003ctr\u003e\u003cth\u003e16\u003c/th\u003e\u003ctd\u003e35\u003c/td\u003e\u003ctd\u003e39\u003c/td\u003e\u003c/tr\u003e\u003ctr\u003e\u003cth\u003e17\u003c/th\u003e\u003ctd\u003e39\u003c/td\u003e\u003c/tr\u003e\u003ctr\u003e\u003cth\u003e18\u003c/th\u003e\u003ctd\u003e39\u003c/td\u003e\u003c/tr\u003e\u003ctr\u003e\u003cth\u003e19\u003c/th\u003e\u003ctd\u003e39\u003c/td\u003e\u003c/tr\u003e\u003ctr\u003e\u003cth\u003e20\u003c/th\u003e\u003ctd\u003e39\u003c/td\u003e\u003c/tr\u003e\u003ctr\u003e\u003cth\u003e21\u003c/th\u003e\u003ctd\u003e39\u003c/td\u003e\u003c/tr\u003e\u003ctr\u003e\u003cth\u003e22\u003c/th\u003e\u003ctd\u003e39\u003c/td\u003e\u003c/tr\u003e\u003ctr\u003e\u003cth\u003e23\u003c/th\u003e\u003ctd\u003e39\u003c/td\u003e\u003c/tr\u003e\u003ctr\u003e\u003cth\u003e24\u003c/th\u003e\u003ctd\u003e39\u003c/td\u003e\u003c/tr\u003e\u003ctr\u003e\u003cth\u003e25\u003c/th\u003e\u003ctd\u003e39\u003c/td\u003e\u003c/tr\u003e\u003ctr\u003e\u003cth\u003e26\u003c/th\u003e\u003ctd\u003e39\u003c/td\u003e\u003c/tr\u003e\u003ctr\u003e\u003cth\u003e27\u003c/th\u003e\u003ctd\u003e39\u003c/td\u003e\u003c/tr\u003e\u003ctr\u003e\u003cth\u003e28\u003c/th\u003e\u003ctd\u003e39\u003c/td\u003e\u003c/tr\u003e\u003ctr\u003e\u003cth\u003e29\u003c/th\u003e\u003ctd\u003e39\u003c/td\u003e\u003c/tr\u003e\u003ctr\u003e\u003cth\u003e30\u003c/th\u003e\u003ctd\u003e39\u003c/td\u003e\u003c/tr\u003e\u003ctr\u003e\u003cth\u003e31\u003c/th\u003e\u003ctd\u003e39\u003c/td\u003e\u003c/tr\u003e\u003ctr\u003e\u003cth\u003e32\u003c/th\u003e\u003ctd\u003e39\u003c/td\u003e\u003c/tr\u003e\u003ctr\u003e\u003cth\u003e33\u003c/th\u003e\u003ctd\u003e39\u003c/td\u003e\u003c/tr\u003e\u003ctr\u003e\u003cth\u003e34\u003c/th\u003e\u003ctd\u003e39\u003c/td\u003e\u003c/tr\u003e\u003ctr\u003e\u003cth\u003e35\u003c/th\u003e\u003ctd\u003e39\u003c/td\u003e\u003c/tr\u003e\u003c/table\u003e\u003c/div\u003e", "value": 7}]);
+        edges = new vis.DataSet([]);
+
+        // adding nodes and edges to the graph
+        data = {nodes: nodes, edges: edges};
+
+        var options = {
+    "configure": {
+        "enabled": false
+    },
+    "edges": {
+        "color": {
+            "inherit": true
+        },
+        "smooth": {
+            "enabled": false,
+            "type": "continuous"
+        }
+    },
+    "interaction": {
+        "dragNodes": true,
+        "hideEdgesOnDrag": false,
+        "hideNodesOnDrag": false
+    },
+    "physics": {
+        "enabled": true,
+        "stabilization": {
+            "enabled": true,
+            "fit": true,
+            "iterations": 1000,
+            "onlyDynamicEdges": false,
+            "updateInterval": 50
+        }
+    }
+};
+        
+        
+
+        
+
+        network = new vis.Network(container, data, options);
+	 
+        
+
+
+        
+
+        return network;
+
+    }
+
+    drawGraph();
+
+</script>
+</body>
+</html>

diff --git a/modelReplication.py b/modelReplication.py
@@ -57,7 +57,7 @@ if __name__ == "__main__":
         'Pn': 0.90,
         'Pw': 0.28,
         'Pd': 0.0,
-        'newAuthors': int(2.9*10**5),
+        'newPapers': int(2.9*10**5),
         'simulationName': 'Nanobank'
     }
     scholarometer = {
@@ -72,22 +72,29 @@ if __name__ == "__main__":
         'Pw': 0.71,
         'Pd': 0.50,
         'newPapers': int(2.9*10**5),
+        # 'newPapers': int(2.9*10**5),
         'simulationName': 'Bibsonomy'
     }
 
 
-    print(os.cpu_count())
     # declare amount of runs to average
     RUNS = 10
 
     # declare multiprocessing
-    pool = Pool()
+    pool = Pool(10)
 
-    data = pool.map(runSimulation, [nanobank] * RUNS)
+    simulations = [nanobank] * RUNS + [bibsonomy] * RUNS
+
+    data = pool.map(runSimulation, simulations)
     pool.close()
     data = list(data)
 
     # get nanobank results
     descr, numAuths, numPaps, numTops = combineDescr(data[:RUNS])
     Evolution().plotDescriptorsDistr(saveToFile='outputs/nanobankPlots.png', ylogBase=10, xlogBase=10, data=descr, 
+                                    numAuthors=numAuths, numPapers=numPaps, numTopics=numTops)
+
+    # get bibsonomy results
+    descr, numAuths, numPaps, numTops = combineDescr(data[RUNS:])
+    Evolution().plotDescriptorsDistr(saveToFile='outputs/bibsonomyPlots.png', ylogBase=10, xlogBase=10, data=descr, 
                                     numAuthors=numAuths, numPapers=numPaps, numTopics=numTops)
